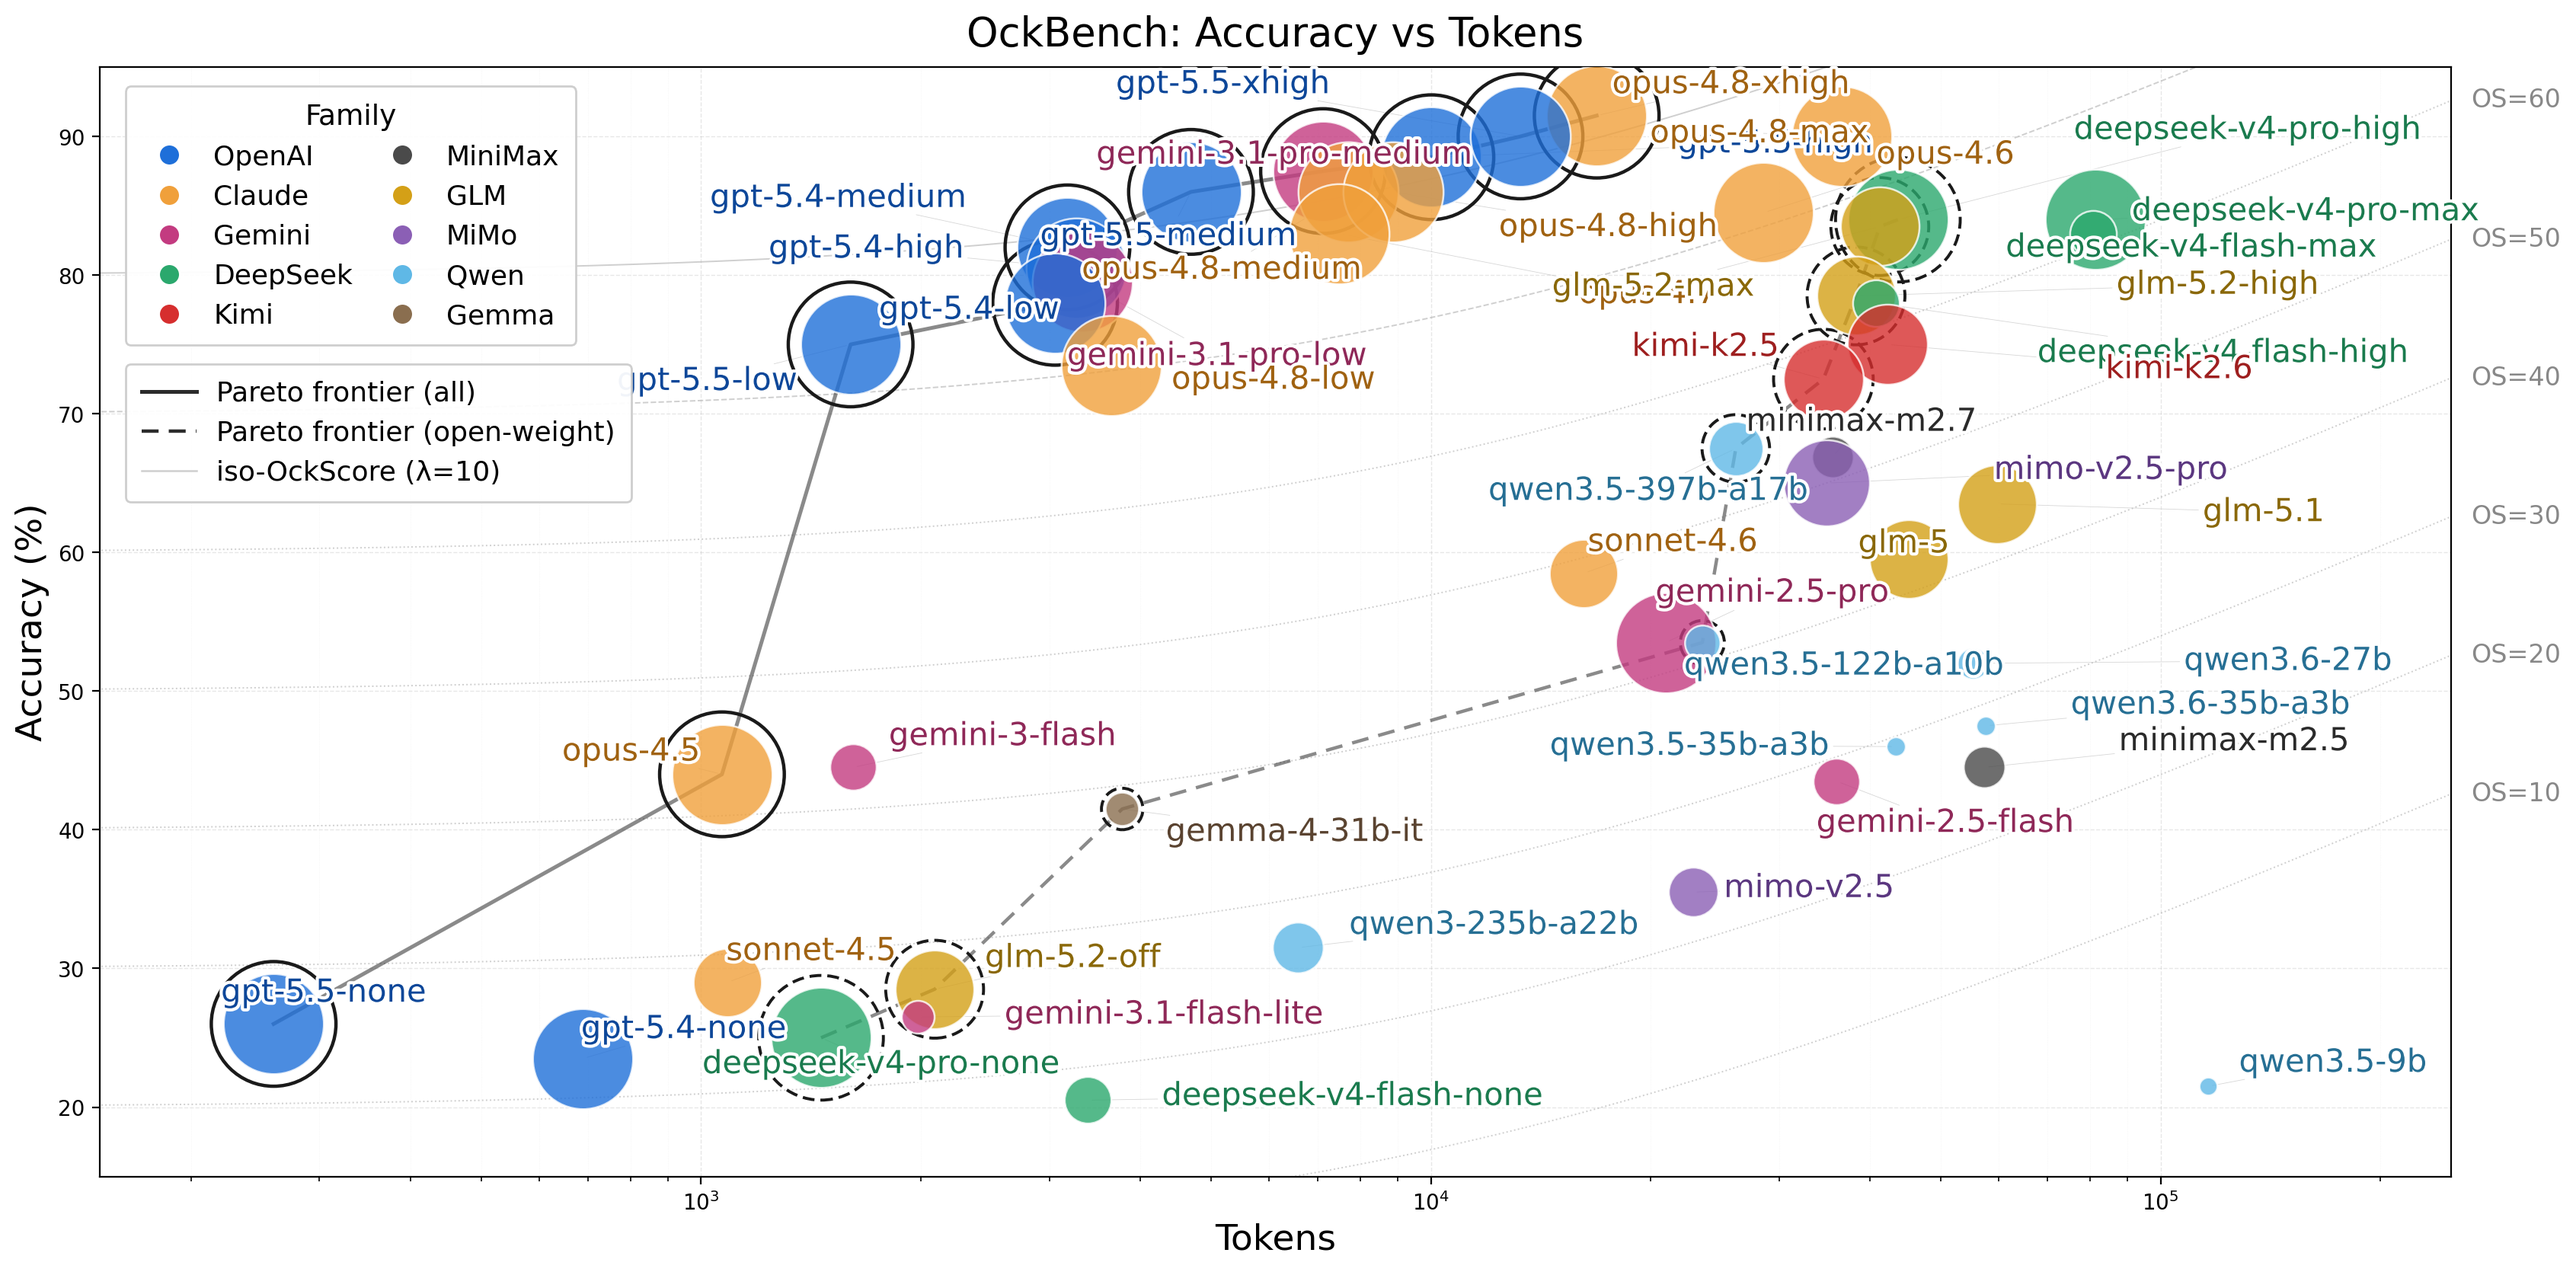
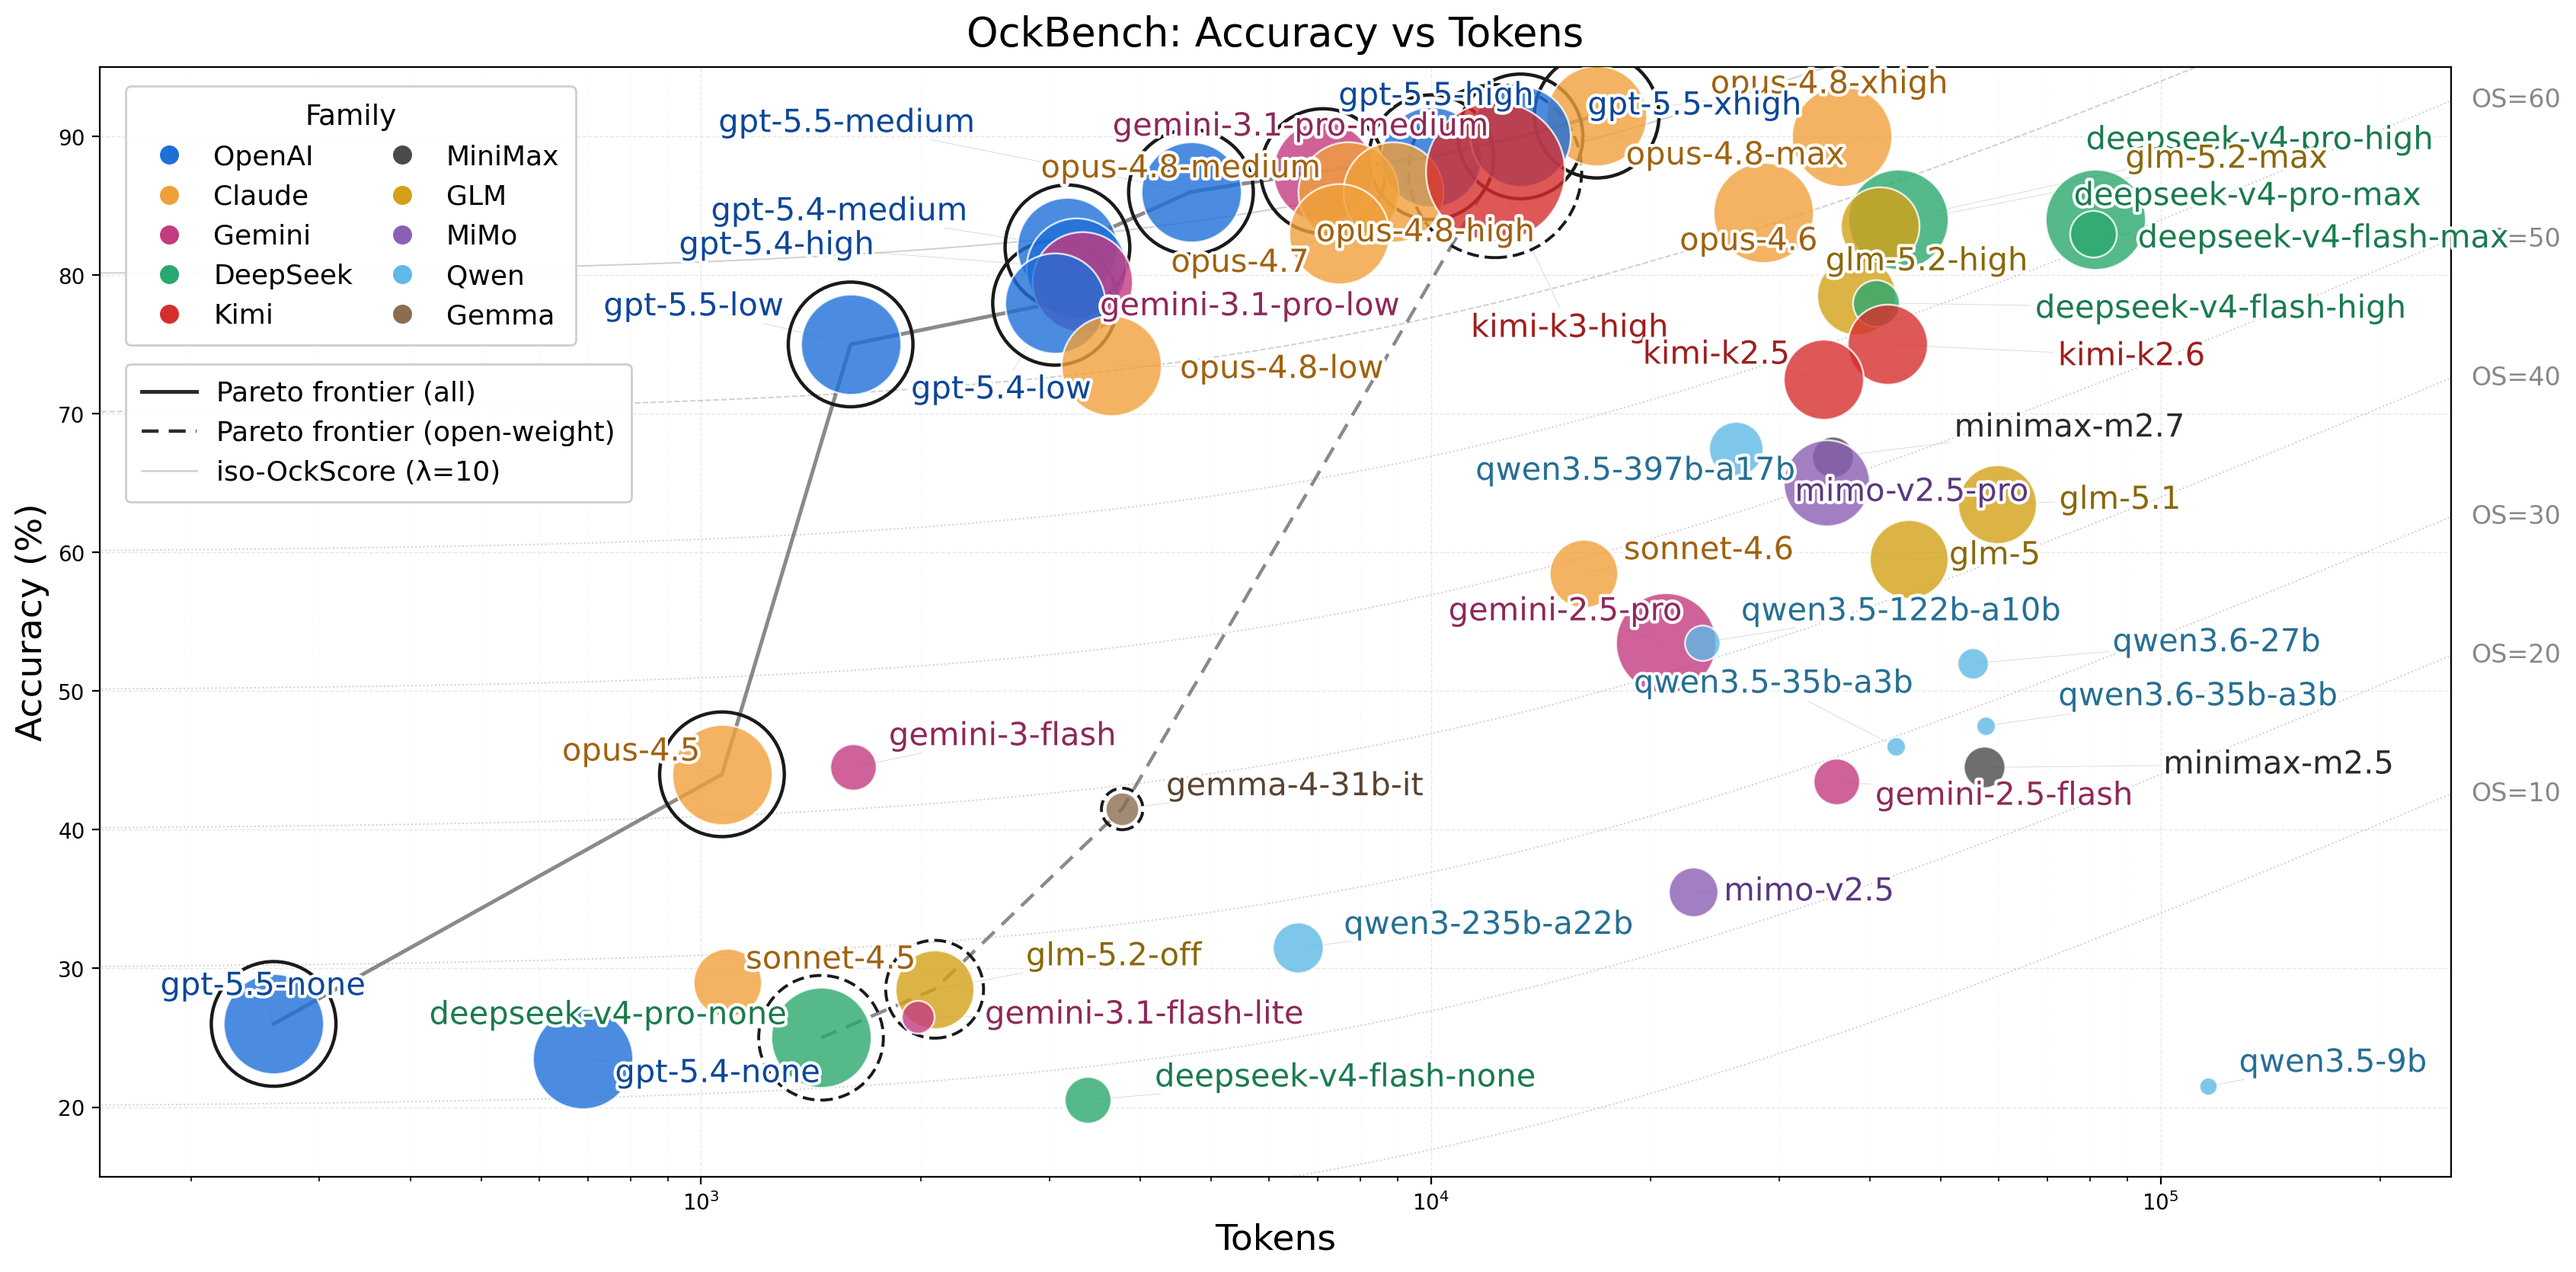
Publish Kimi K3 high results

diff --git a/index.html b/index.html
@@ -90,7 +90,7 @@
         </ol>
 
         <p>
-          Through extensive evaluations on <span class="model-count">50</span> frontier and open-source model
+          Through extensive evaluations on <span class="model-count">51</span> frontier and open-source model
           settings, we find that top open-source models have nearly closed the accuracy gap but consume up to
           <strong>26&times; more tokens</strong> than commercial counterparts for comparable accuracy.
           Meanwhile, frontier commercial models are rapidly co-optimizing both dimensions, validating
@@ -101,7 +101,7 @@
           <img src="static/images/bubble_plot.png" alt="Scatter plot of accuracy versus average output tokens for all evaluated models; commercial models dominate the upper-left Pareto frontier while open-source models cluster to the right." loading="lazy">
           <figcaption>
             <span class="fig-label">Figure&nbsp;1.</span> Accuracy vs. Average Tokens across
-            <span class="model-count">50</span> evaluated model settings. Models in the upper-left corner are
+            <span class="model-count">51</span> evaluated model settings. Models in the upper-left corner are
             ideal. The Pareto frontier is dominated by commercial models; open-source models cluster to the right.
           </figcaption>
         </figure>
@@ -114,7 +114,7 @@
           </div>
           <div class="obs">
             <h4>Open vs. closed gap</h4>
-            <p>DeepSeek-V4-Pro (high) reaches <strong>84.0%</strong>, within two points of GPT-5.5 (medium), but uses <strong>9.3&times; more tokens</strong> (43,652 vs 4,692). Open weights are close on accuracy, not yet on efficiency.</p>
+            <p>Kimi-K3 (high) matches Gemini 3.1 Pro (medium) at <strong>87.5%</strong> accuracy while using <strong>1.7&times; more tokens</strong> (12,250 vs 7,116). It ranks eighth overall and first among open-weight settings.</p>
           </div>
           <div class="obs">
             <h4>The overthinking tax</h4>
@@ -226,7 +226,7 @@
           <div class="stat"><span class="stat-n">200</span><span class="stat-l">Questions per domain</span></div>
           <div class="stat"><span class="stat-n">3</span><span class="stat-l">Task domains</span></div>
           <div class="stat"><span class="stat-n">8+</span><span class="stat-l">Source datasets</span></div>
-          <div class="stat"><span class="stat-n"><span class="model-count">50</span></span><span class="stat-l">Settings evaluated</span></div>
+          <div class="stat"><span class="stat-n"><span class="model-count">51</span></span><span class="stat-l">Settings evaluated</span></div>
         </div>
 
         <h3 class="sub-head">Benchmark composition</h3>
@@ -292,11 +292,11 @@
         <h2 class="sec-head" id="sec-findings"><span class="sec-num">5.</span> Key Findings</h2>
 
         <ol class="findings">
-          <li><strong>Closed models own the efficiency frontier.</strong> GPT-5.5 (medium) remains first at 82.15 OckScore, Gemini 3.1 Pro (medium) enters second at 82.13, and Claude Opus 4.8 (xhigh) is third at 81.61 with the highest accuracy in the table (91.5%). The top ten settings are all GPT-5.x, Claude Opus, or Gemini; the best open-weight setting ranks 17th.</li>
-          <li><strong>Open-source accuracy is close, but efficiency still lags.</strong> DeepSeek-V4-Pro (high) reaches 84.0%, within two points of GPT-5.5 (medium), but spends <strong>9.3&times; more tokens</strong> (43,652 vs 4,692). The accuracy gap has nearly closed; the per-token-intelligence gap has not.</li>
+          <li><strong>Closed models own the efficiency frontier.</strong> GPT-5.5 (medium) remains first at 82.15 OckScore, Gemini 3.1 Pro (medium) is second at 82.13, and Claude Opus 4.8 (xhigh) is third at 81.61 with the highest accuracy in the table (91.5%). The top seven settings are closed models; Kimi-K3 (high) is the first open-weight entry at rank 8, but GPT-5.5 (high) Pareto-dominates it with higher accuracy and fewer tokens.</li>
+          <li><strong>Open-source accuracy is close, but efficiency still lags.</strong> Kimi-K3 (high) matches Gemini 3.1 Pro (medium) at 87.5% accuracy, but spends <strong>1.7&times; more tokens</strong> (12,250 vs 7,116), leaving its OckScore 2.62 points lower (79.50 vs 82.13). The accuracy gap has closed at this point; the per-token-intelligence gap has not.</li>
           <li><strong>The Overthinking Tax.</strong> In the Qwen3.5 family, larger models are both smarter <em>and</em> leaner &mdash; Qwen3.5-9B burns 116,222 tokens for 21.5% accuracy (last place at OckScore &minus;3.85), while Qwen3.5-397B-A17B reaches 67.5% using <strong>4.4&times; fewer</strong> tokens. Smaller models over-generate to compensate for lower capacity.</li>
           <li><strong>More effort is not monotonically better.</strong> Claude Opus 4.8 peaks at xhigh (91.5%, OckScore 81.61). Moving to max lowers accuracy to 90.0% while more than doubling tokens (16,876 &rarr; 36,544), dropping OckScore to 74.62.</li>
-          <li><strong>Open-weight leaders are tightly matched.</strong> DeepSeek-V4-Pro (high) reaches 84.0% at 43,652 tokens and 67.20 OckScore, while GLM-5.2 (max) reaches 83.5% at 41,234 tokens and 67.16 OckScore.</li>
+          <li><strong>Kimi-K3 raises the open-weight bar.</strong> At 87.5% accuracy, 12,250 tokens, and 79.50 OckScore, Kimi-K3 (high) gains 3.5 accuracy points over the previous open-weight leader, DeepSeek-V4-Pro (high), while using <strong>3.6&times; fewer tokens</strong> and gaining 12.30 OckScore points.</li>
           <li><strong>MiniMax-M2.7 is reported as a repeated-run average.</strong> Its row pools minimal/low/medium/high requested labels to 66.875% accuracy, 35,538 average output tokens, and 51.72 OckScore. The labels were accepted by the gateway but are not presented as a verified reasoning-depth ladder.</li>
         </ol>
       </div>

diff --git a/static/js/ock.js b/static/js/ock.js
@@ -11,7 +11,7 @@
     'gpt-5.5-medium', 'gpt-5.5-high', 'gpt-5.4-medium',
     'opus-4.8-xhigh', 'opus-4.8-medium', 'opus-4.7-xhigh',
     'opus-4.6', 'gemini-3.1-pro-preview-medium', 'gemini-3.1-pro-preview-low',
-    'deepseek-v4-pro-high',
+    'kimi-k3-high', 'deepseek-v4-pro-high',
     'deepseek-v4-flash-high', 'glm-5.2-max', 'kimi-k2.6',
     'qwen3.5-397b-a17b', 'minimax-m2.7', 'mimo-v2.5-pro-thinking', 'glm-5.1',
     'sonnet-4.6', 'gemma-4-31b-it', 'qwen3.6-27b', 'gemini-2.5-pro',
@@ -50,6 +50,7 @@
     'deepseek-v4-pro-none': 'DeepSeek-V4-Pro (none)',
     'deepseek-v4-pro-high': 'DeepSeek-V4-Pro (high)',
     'deepseek-v4-pro-max': 'DeepSeek-V4-Pro (max)',
+    'kimi-k3-high': 'Kimi-K3 (high)',
     'kimi-k2.6': 'Kimi-K2.6',
     'kimi-k2.5': 'Kimi-K2.5',
     'minimax-m2.7': 'MiniMax-M2.7',
